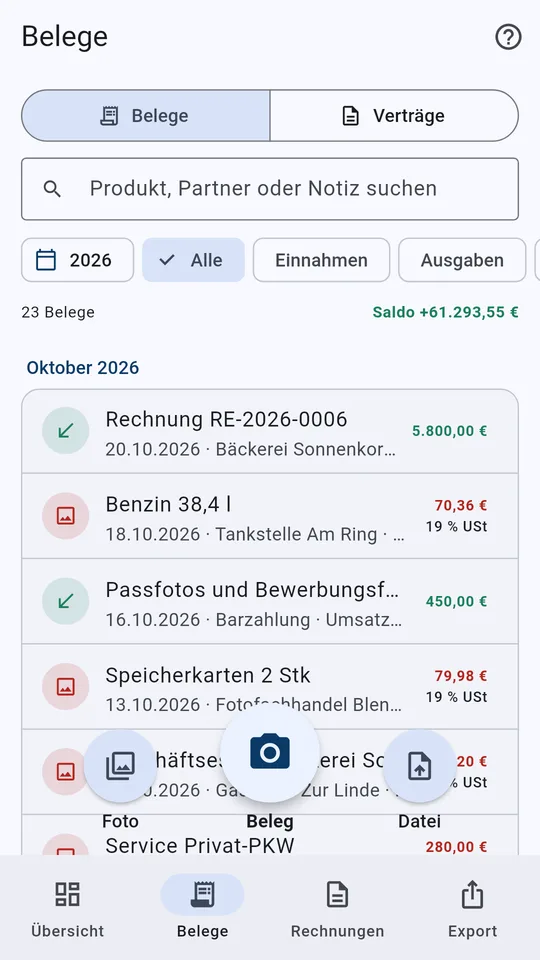
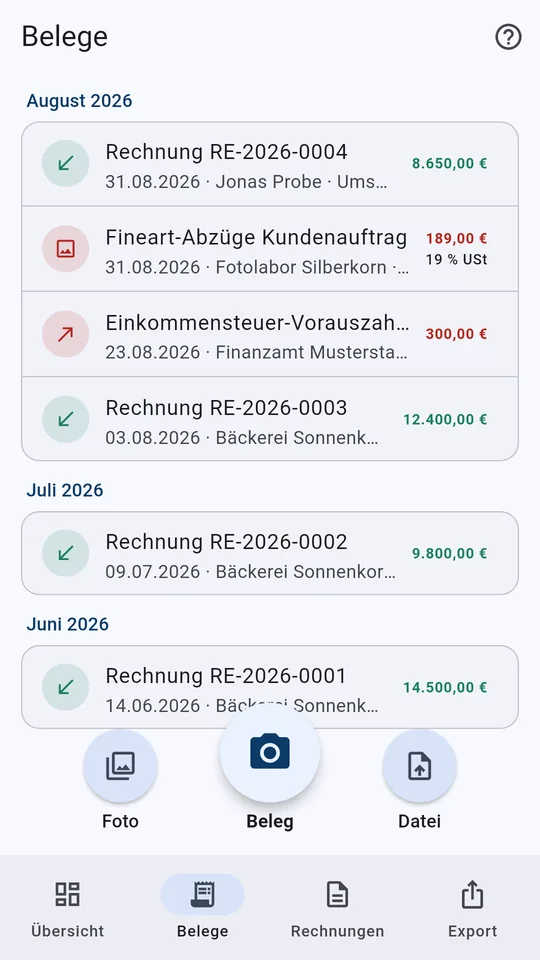
Store-Screenshots überarbeitet, Website-Bilder erneuert
- Übersicht und Belegliste ans Ende gescrollt: die Aufnahmeleiste liegt
  über dem Abstand, nicht über Beträgen
- Sicherungshinweis weg: Demo-Profil mit Sicherung „heute“ (nur im Test)
- Beleg-Screenshot zeigt einen frisch fotografierten Beleg mit Feldern
  „erkannt – bitte prüfen“ (Texterkennungskanal im Test nachgebildet)
- Verträge: Vertrag mit Seitenvorschau statt fast leerer Liste
- Tablet/iPad: Beleg in der Liste gewählt, Detail rechts gefüllt
- Belegformular: Steuersatz-Auswahl mit isExpanded und Kürzung, lief auf
  ~411 dp breiten Handys um 25 px über
- docs/site/img/app/*.webp aus den neuen Handy-Bildern (540x960),
  Alt-Texte der Produktseite angepasst

Claude-Session: https://claude.ai/code/session_016sfhTuSB7LJAoqeRige712

diff --git a/test/screenshots/store_screenshots_test.dart b/test/screenshots/store_screenshots_test.dart
@@ -7,21 +7,25 @@ import 'dart:ui' as ui;
 import 'package:buchhaltung/app_state.dart';
 import 'package:buchhaltung/data/app_database.dart';
 import 'package:buchhaltung/data/repositories.dart';
+import 'package:buchhaltung/core/formatting.dart';
 import 'package:buchhaltung/domain/country.dart';
 import 'package:buchhaltung/domain/invoice.dart';
 import 'package:buchhaltung/domain/legal_texts.dart';
+import 'package:buchhaltung/domain/receipt.dart';
 import 'package:buchhaltung/features/contracts/contract_screens.dart';
 import 'package:buchhaltung/features/demo/demo_screens.dart';
 import 'package:buchhaltung/features/invoices/invoice_share.dart';
 import 'package:buchhaltung/features/licensing/subscription_screen.dart';
 import 'package:buchhaltung/features/pdf_viewer/pdf_viewer_screen.dart';
-import 'package:buchhaltung/features/receipts/receipt_view_screen.dart';
+import 'package:buchhaltung/features/receipts/receipt_edit_screen.dart';
 import 'package:buchhaltung/main.dart';
 import 'package:buchhaltung/services/demo/demo_mode.dart';
+import 'package:buchhaltung/services/demo/demo_receipt_image.dart';
 import 'package:buchhaltung/services/demo/demo_session.dart';
 import 'package:buchhaltung/services/licensing/fake_store_billing.dart';
 import 'package:buchhaltung/services/licensing/license_cache.dart';
 import 'package:buchhaltung/services/licensing/license_manager.dart';
+import 'package:buchhaltung/services/receipt_image_store.dart';
 import 'package:flutter/material.dart';
 import 'package:flutter/rendering.dart';
 import 'package:flutter/services.dart';
@@ -134,6 +138,25 @@ void main() {
           country: Country.de,
         ),
       ))!;
+      // Bildschirmfotos ohne Sicherungshinweis: Sicherung „heute“ erledigt.
+      await tester.runAsync(() async {
+        await db.execute('PRAGMA query_only = OFF');
+        await db.update('company_profile', {
+          'last_backup_at': DateTime.now().toIso8601String(),
+        });
+        await db.execute('PRAGMA query_only = ON');
+      });
+      Map<String, Object?>? ocrResult;
+      // Belegerkennung ohne Gerät: der Kanal liefert den Text des Demo-Belegs.
+      TestDefaultBinaryMessengerBinding.instance.defaultBinaryMessenger
+          .setMockMethodCallHandler(
+            const MethodChannel('buchhaltung/receipt_text'),
+            (call) async => switch (call.method) {
+              'isAvailable' => true,
+              'recognize' => ocrResult,
+              _ => null,
+            },
+          );
       await tester.runAsync(() => state.enterDemo(db, fromSettings: true));
       await _settle(tester);
 
@@ -158,17 +181,29 @@ void main() {
       final navigator = appNavigatorKey.currentState!;
       final repos = state.repositories;
 
-      // 1 Übersicht
+      // 1 Übersicht, ans Ende gescrollt: unter der Aufnahmeleiste liegt
+      // nur der Abstand, kein Betrag.
+      await _scrollToEnd(tester, find.text('Kleinunternehmergrenze'));
       await shot('1_uebersicht');
 
-      // 2 Beleg mit Foto (Leseansicht)
+      // 2 Beleg frisch fotografiert, Felder „erkannt – bitte prüfen“
       final receipts = (await tester.runAsync(() => repos.receipts.query()))!;
       final withImage = receipts.firstWhere((r) => r.hasImage);
+      ocrResult = _ocrFor(withImage);
+      final photo = (await tester.runAsync(
+        () => ReceiptImageStore.resolve(withImage.imagePath),
+      ))!;
       navigator.push(
         MaterialPageRoute<void>(
-          builder: (_) => ReceiptViewScreen(receipt: withImage),
+          builder: (_) => ReceiptEditScreen(
+            direction: BookingDirection.expense,
+            sharedFiles: [photo],
+          ),
         ),
       );
+      await _settle(tester);
+      // Hinweis „Beleg ausgelesen“ abwarten.
+      await tester.pump(const Duration(seconds: 6));
       await shot('2_beleg');
       navigator.pop();
       await _settle(tester);
@@ -205,15 +240,32 @@ void main() {
 
       // 4 Belegliste
       await tester.tap(find.text('Belege').last);
+      await _settle(tester);
+      // Tablet (Liste und Detail nebeneinander): einen Beleg zeigen.
+      if (find.textContaining('Wähle links').evaluate().isNotEmpty) {
+        await tester.tap(find.text(withImage.description).first);
+        await _settle(tester);
+      }
+      await _scrollToEnd(tester, find.text('Oktober 2026').first);
       await shot('4_belegliste');
 
       // 5 Export
       await tester.tap(find.text('Export').last);
       await shot('5_export');
 
-      // 6 Verträge
+      // 6 Vertrag mit Seitenvorschau (Demo-Verträge haben kein Dokument)
+      final contract = (await tester.runAsync(
+        () => repos.contracts.all(),
+      ))!.first;
+      final page = p.join(ReceiptImageStore.demoFolder, 'vertrag_seite1.png');
+      await tester.runAsync(
+        () => File(p.join(docs.path, page)).writeAsBytes(_contractPage()),
+      );
       navigator.push(
-        MaterialPageRoute<void>(builder: (_) => const ContractListScreen()),
+        MaterialPageRoute<void>(
+          builder: (_) =>
+              ContractEditScreen(contract: contract.copyWith(pages: [page])),
+        ),
       );
       await shot('6_vertraege');
       navigator.pop();
@@ -234,12 +286,65 @@ void main() {
   }
 }
 
+/// Antwort des Texterkennungs-Kanals: der Text des Demo-Belegs [r].
+Map<String, Object?> _ocrFor(Receipt r) {
+  final gross = Fmt.amount(r.gross);
+  final vat = Fmt.amount(r.vat);
+  final rows = [
+    r.counterparty,
+    'Datum ${Fmt.date(r.date)}',
+    '${r.description} $gross',
+    'SUMME EUR $gross',
+    'MwSt ${r.vatPermille ~/ 10}% $vat',
+  ];
+  return {
+    'engine': 'screenshot',
+    'engineVersion': '1',
+    'codes': <String>[],
+    'lines': [
+      for (var i = 0; i < rows.length; i++)
+        {'text': rows[i], 'left': 16, 'top': 14 + i * 24, 'height': 16},
+    ],
+  };
+}
+
+/// Erste Vertragsseite als Musterbild.
+Uint8List _contractPage() => DemoReceiptImage.render(
+  title: 'Mietvertrag Atelier',
+  lines: const [
+    ('Vermieter: Hausverwaltung Muster', ''),
+    ('Mieter: Musterunternehmen', ''),
+    ('Mietbeginn 01.01.2024', ''),
+    ('Kuendigungsfrist 3 Monate', ''),
+    ('Miete monatlich', '450,00'),
+    ('Nebenkosten', 'inkl.'),
+  ],
+  total: '450,00 EUR',
+  footer: 'MUSTERVERTRAG - DEMO',
+);
+
 class _Target {
   const _Target(this.store, this.size, this.ratio);
 
   final String store;
   final Size size;
   final double ratio;
+}
+
+/// Liste mit [inside] ans Ende scrollen; die Aufnahmeleiste, die dabei
+/// ausweicht, ist nach 5 s zurück.
+Future<void> _scrollToEnd(WidgetTester tester, Finder inside) async {
+  final scrollable = tester.state<ScrollableState>(
+    find.ancestor(of: inside, matching: find.byType(Scrollable)).first,
+  );
+  // Lange Listen kennen ihr Ende erst nach dem Aufbau: bis es feststeht.
+  for (var i = 0; i < 10; i++) {
+    final end = scrollable.position.maxScrollExtent;
+    scrollable.position.jumpTo(end);
+    await tester.pump();
+    if (scrollable.position.maxScrollExtent == end) break;
+  }
+  await tester.pump(const Duration(seconds: 6));
 }
 
 /// Laden außerhalb der Test-Uhr abwarten (Datenbank, Bilder).

diff --git a/docs/site/index.html b/docs/site/index.html
@@ -246,10 +246,10 @@ footer nav a{padding-left:0;padding-right:16px;text-decoration:underline;text-un
   <span class="eyebrow">Einblick in die App</span>
   <h2 id="shots-h">So sieht JeNi bucht aus</h2>
   <div class="shots">
-    <figure><img src="img/app/1_uebersicht.webp" alt="Übersicht der App mit Einnahmen, Ausgaben, Ergebnis und Kleinunternehmergrenze" width="540" height="960" loading="lazy"><figcaption>Übersicht: Zahlen und Grenzen auf einen Blick</figcaption></figure>
-    <figure><img src="img/app/2_beleg.webp" alt="Beleg in der Leseansicht mit Foto, Betrag, Steuersatz und Kategorie" width="540" height="960" loading="lazy"><figcaption>Beleg mit Foto, Betrag und Steuer</figcaption></figure>
+    <figure><img src="img/app/1_uebersicht.webp" alt="Übersicht der App mit letzten Belegen und nächsten Terminen, darunter die Aufnahmeleiste" width="540" height="960" loading="lazy"><figcaption>Übersicht: Belege und Termine auf einen Blick</figcaption></figure>
+    <figure><img src="img/app/2_beleg.webp" alt="Neuer Beleg: Betrag und Steuersatz aus dem Foto erkannt, zum Prüfen markiert" width="540" height="960" loading="lazy"><figcaption>Foto rein, Betrag und Steuer erkannt</figcaption></figure>
     <figure><img src="img/app/4_belegliste.webp" alt="Belegliste nach Monaten gruppiert mit Suche und Filtern" width="540" height="960" loading="lazy"><figcaption>Alle Belege, nach Monaten sortiert</figcaption></figure>
-    <figure><img src="img/app/6_vertraege.webp" alt="Vertragsarchiv mit Fristen" width="540" height="960" loading="lazy"><figcaption>Verträge und Fristen</figcaption></figure>
+    <figure><img src="img/app/6_vertraege.webp" alt="Vertrag mit Seitenvorschau des abgelegten Dokuments" width="540" height="960" loading="lazy"><figcaption>Verträge und Fristen</figcaption></figure>
     <figure><img src="img/app/5_export.webp" alt="Export-Seite mit Unterlagen für Finanzamt und Steuerberatung" width="540" height="960" loading="lazy"><figcaption>Export für die Steuerberatung</figcaption></figure>
   </div>
   <p class="shots-note">Bildschirmfotos mit erfundenen Musterdaten. Seitlich wischen für mehr.</p>

diff --git a/tool/site/produktseite.html b/tool/site/produktseite.html
@@ -245,10 +245,10 @@ footer nav a{padding-left:0;padding-right:16px;text-decoration:underline;text-un
   <span class="eyebrow">Einblick in die App</span>
   <h2 id="shots-h">So sieht JeNi bucht aus</h2>
   <div class="shots">
-    <figure><img src="img/app/1_uebersicht.webp" alt="Übersicht der App mit Einnahmen, Ausgaben, Ergebnis und Kleinunternehmergrenze" width="540" height="960" loading="lazy"><figcaption>Übersicht: Zahlen und Grenzen auf einen Blick</figcaption></figure>
-    <figure><img src="img/app/2_beleg.webp" alt="Beleg in der Leseansicht mit Foto, Betrag, Steuersatz und Kategorie" width="540" height="960" loading="lazy"><figcaption>Beleg mit Foto, Betrag und Steuer</figcaption></figure>
+    <figure><img src="img/app/1_uebersicht.webp" alt="Übersicht der App mit letzten Belegen und nächsten Terminen, darunter die Aufnahmeleiste" width="540" height="960" loading="lazy"><figcaption>Übersicht: Belege und Termine auf einen Blick</figcaption></figure>
+    <figure><img src="img/app/2_beleg.webp" alt="Neuer Beleg: Betrag und Steuersatz aus dem Foto erkannt, zum Prüfen markiert" width="540" height="960" loading="lazy"><figcaption>Foto rein, Betrag und Steuer erkannt</figcaption></figure>
     <figure><img src="img/app/4_belegliste.webp" alt="Belegliste nach Monaten gruppiert mit Suche und Filtern" width="540" height="960" loading="lazy"><figcaption>Alle Belege, nach Monaten sortiert</figcaption></figure>
-    <figure><img src="img/app/6_vertraege.webp" alt="Vertragsarchiv mit Fristen" width="540" height="960" loading="lazy"><figcaption>Verträge und Fristen</figcaption></figure>
+    <figure><img src="img/app/6_vertraege.webp" alt="Vertrag mit Seitenvorschau des abgelegten Dokuments" width="540" height="960" loading="lazy"><figcaption>Verträge und Fristen</figcaption></figure>
     <figure><img src="img/app/5_export.webp" alt="Export-Seite mit Unterlagen für Finanzamt und Steuerberatung" width="540" height="960" loading="lazy"><figcaption>Export für die Steuerberatung</figcaption></figure>
   </div>
   <p class="shots-note">Bildschirmfotos mit erfundenen Musterdaten. Seitlich wischen für mehr.</p>

diff --git a/lib/features/receipts/receipt_edit_screen.dart b/lib/features/receipts/receipt_edit_screen.dart
@@ -1770,6 +1770,9 @@ class _ReceiptEditScreenState extends State<ReceiptEditScreen> {
                         DropdownButtonFormField<int>(
                           key: ValueKey('vat$_vatPermille'),
                           initialValue: _vatPermille,
+                          // Lange Bezeichnungen kürzen statt überlaufen
+                          // (schmale Handys, ~411 dp).
+                          isExpanded: true,
                           decoration: const InputDecoration(
                             labelText: 'Umsatzsteuersatz',
                           ),
@@ -1780,7 +1783,10 @@ class _ReceiptEditScreenState extends State<ReceiptEditScreen> {
                             ))
                               DropdownMenuItem(
                                 value: rate.permille,
-                                child: Text('${rate.display} – ${rate.label}'),
+                                child: Text(
+                                  '${rate.display} – ${rate.label}',
+                                  overflow: TextOverflow.ellipsis,
+                                ),
                               ),
                           ],
                           onChanged: (value) =>

diff --git a/docs/RELEASE_NOTES.md b/docs/RELEASE_NOTES.md
@@ -34,6 +34,7 @@ nächsten Versionssprung in den neuen Eintrag.
 
 | Art | Änderung | Bezug | Commit |
 |---|---|---|---|
+| Behoben | Belegformular: Auswahl „Umsatzsteuersatz“ kürzt lange Bezeichnungen statt rechts überzulaufen (schmale Handys, ~411 dp, beim Erzeugen der Store-Screenshots aufgefallen) | SPEC 7 | dieser Commit |
 
 ---
 
